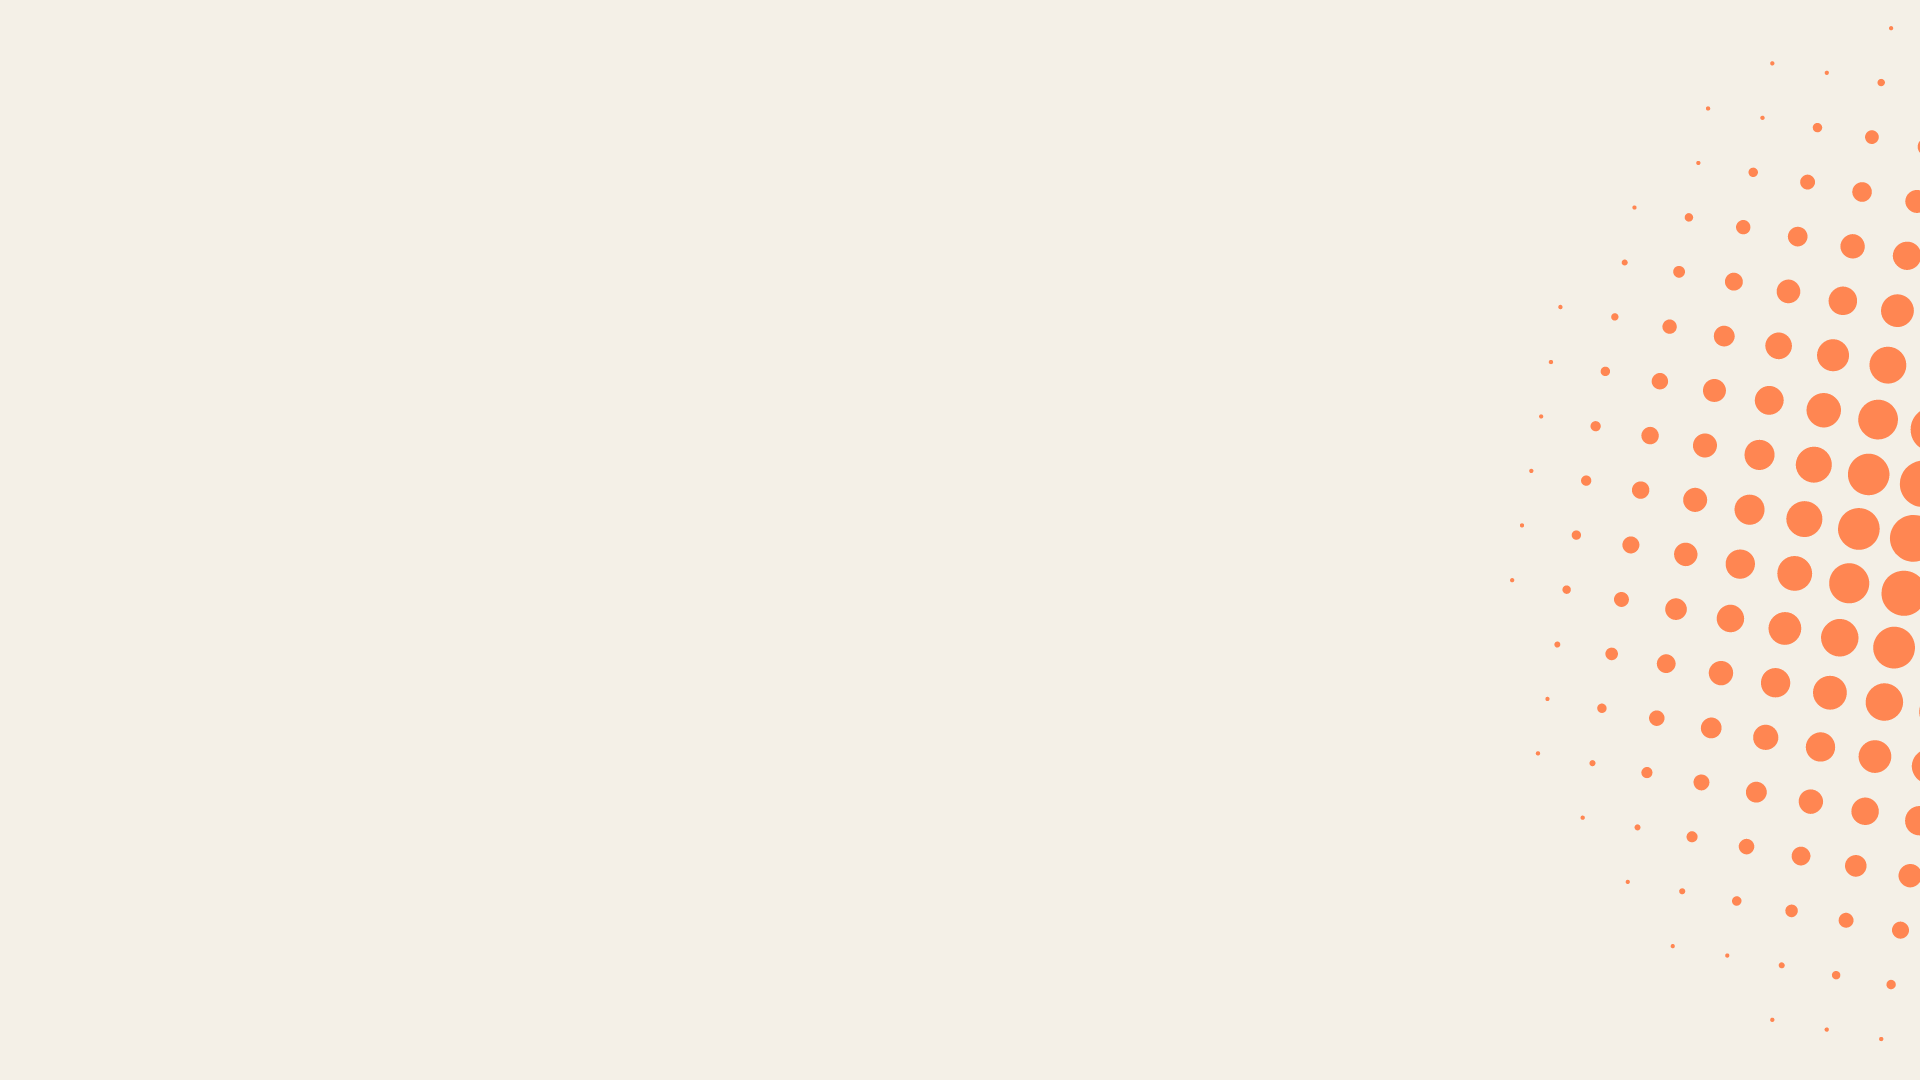
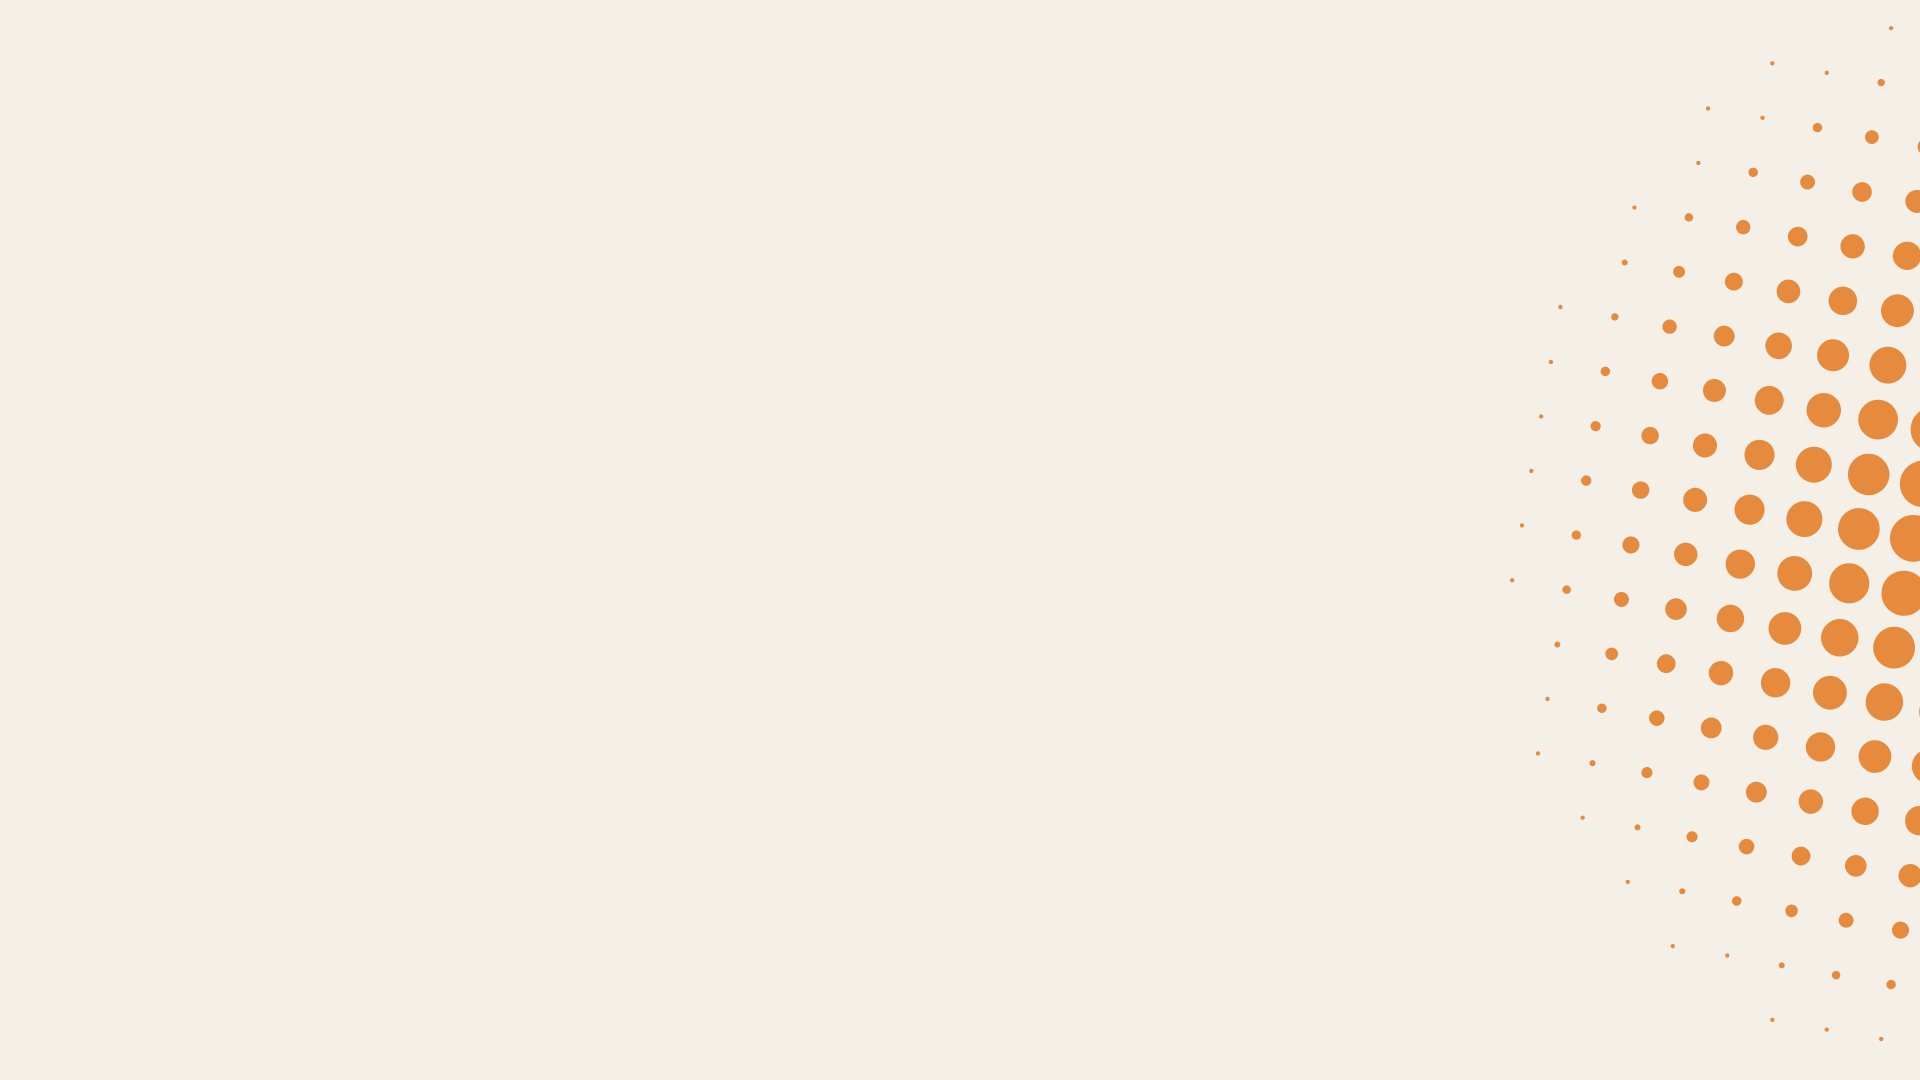
Added photo to projects page. Updated orange color

diff --git a/index.html b/index.html
@@ -39,21 +39,30 @@
     <br />
     <br />
     <br />
+    <table>
+        <tr>
+            <td style="vertical-align:top">
+                <h1>Daniel Yu</h1>
+                <p>Gameplay Programmer and Audio Designer</p>
+                <br />
 
-    <h1>Daniel Yu</h1>
-    <p>Gameplay Programmer and Audio Designer</p>
-    <br />
-
-    <div class="categoryBox">
-        <table>
-            <tr>
-                <td id="All"><span class="categoryItem" onclick="loadPortfolio('All')">All</span></td>
-                <td id="Game Programming"><span class="categoryItem" onclick="loadPortfolio('Game Programming')">Game Programming</span></td>
-                <td id="SWE"><span class="categoryItem" onclick="loadPortfolio('SWE')">SWE</span></td>
-                <td id="Audio"><span class="categoryItem" onclick="loadPortfolio('Audio')">Audio</span></td>
-            </tr>
-        </table>
-    </div>
+                <div class="categoryBox">
+                    <table>
+                        <tr>
+                            <td id="All"><span class="categoryItem" onclick="loadPortfolio('All')">All</span></td>
+                            <td id="Game Programming"><span class="categoryItem" onclick="loadPortfolio('Game Programming')">Game Programming</span></td>
+                            <td id="SWE"><span class="categoryItem" onclick="loadPortfolio('SWE')">SWE</span></td>
+                            <td id="Audio"><span class="categoryItem" onclick="loadPortfolio('Audio')">Audio</span></td>
+                        </tr>
+                    </table>
+                </div>
+            </td>
+            <td width="20%" style="vertical-align:bottom">
+                <br />
+                <img class="headshot" src="assets/ProfilePicture.png" width="100%" />
+            </td>
+        </tr>
+    </table>
     <br />
     <div id="portfolio"></div>
 

diff --git a/css/const.css b/css/const.css
@@ -2,7 +2,7 @@
     --blue: #4c92d9;
     --black: black;
     --offwhite: #F4F0E7;
-    --orange: #ff8652;
+    --orange: #E68B3D;
 }
 
 @font-face {
